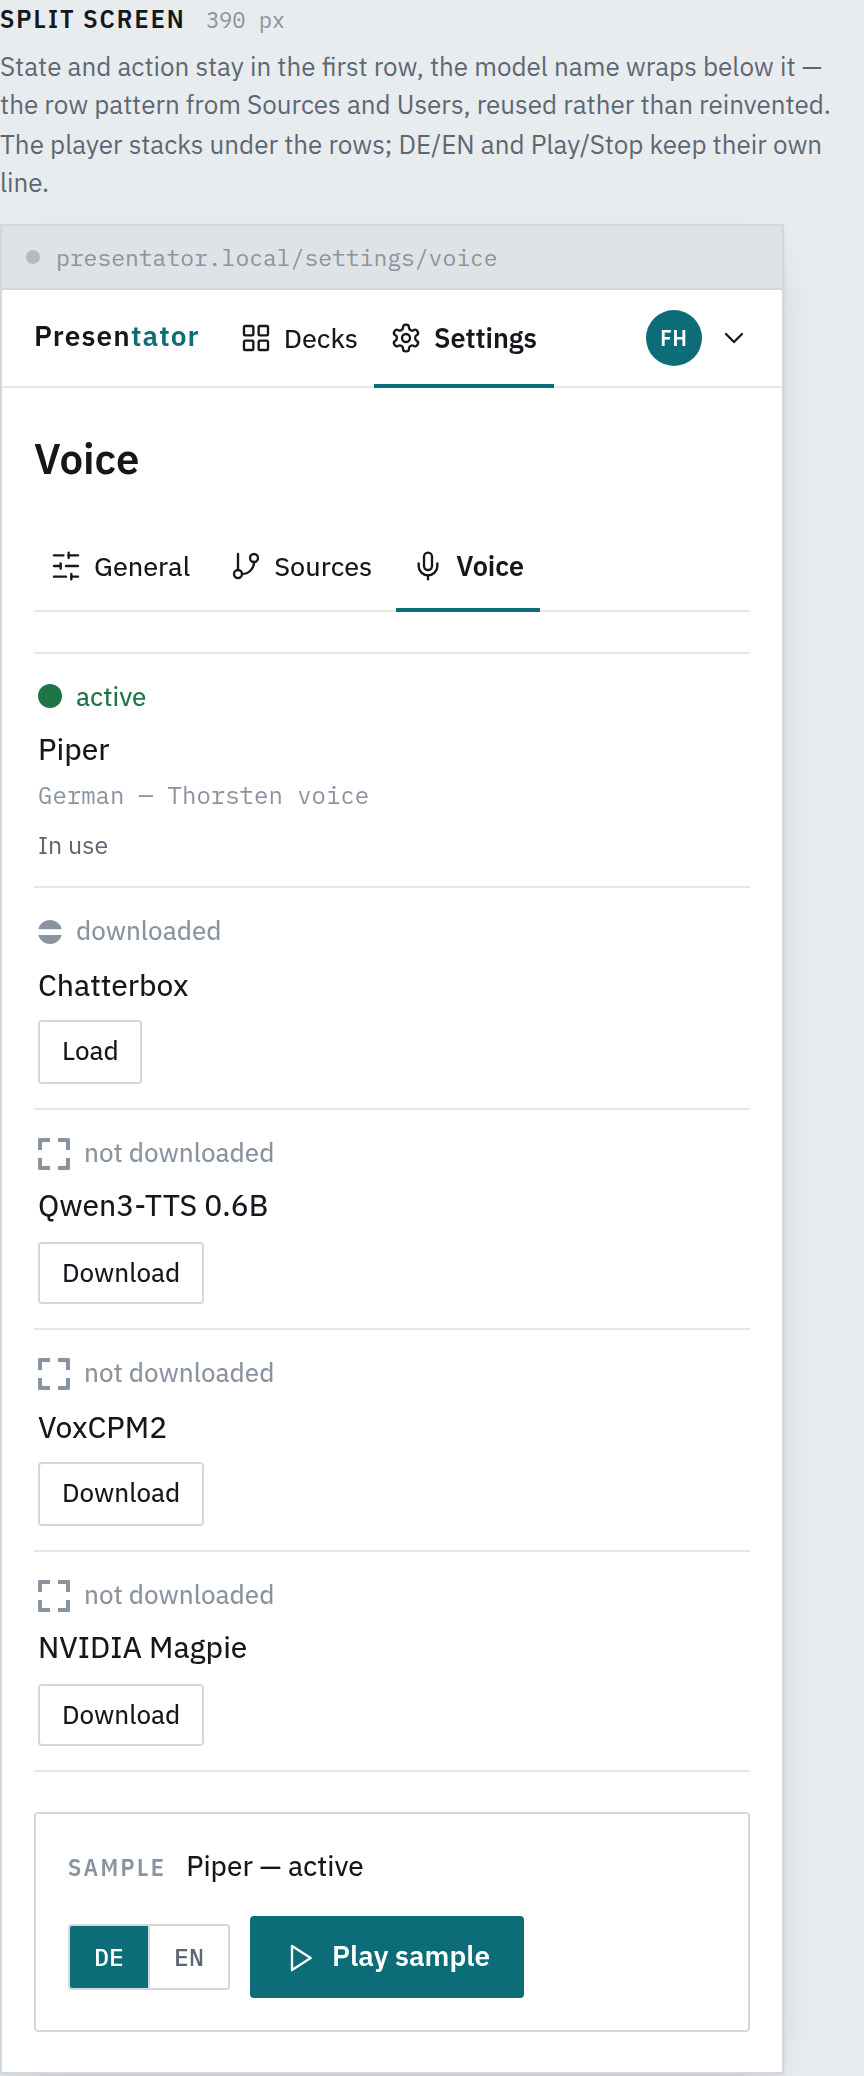
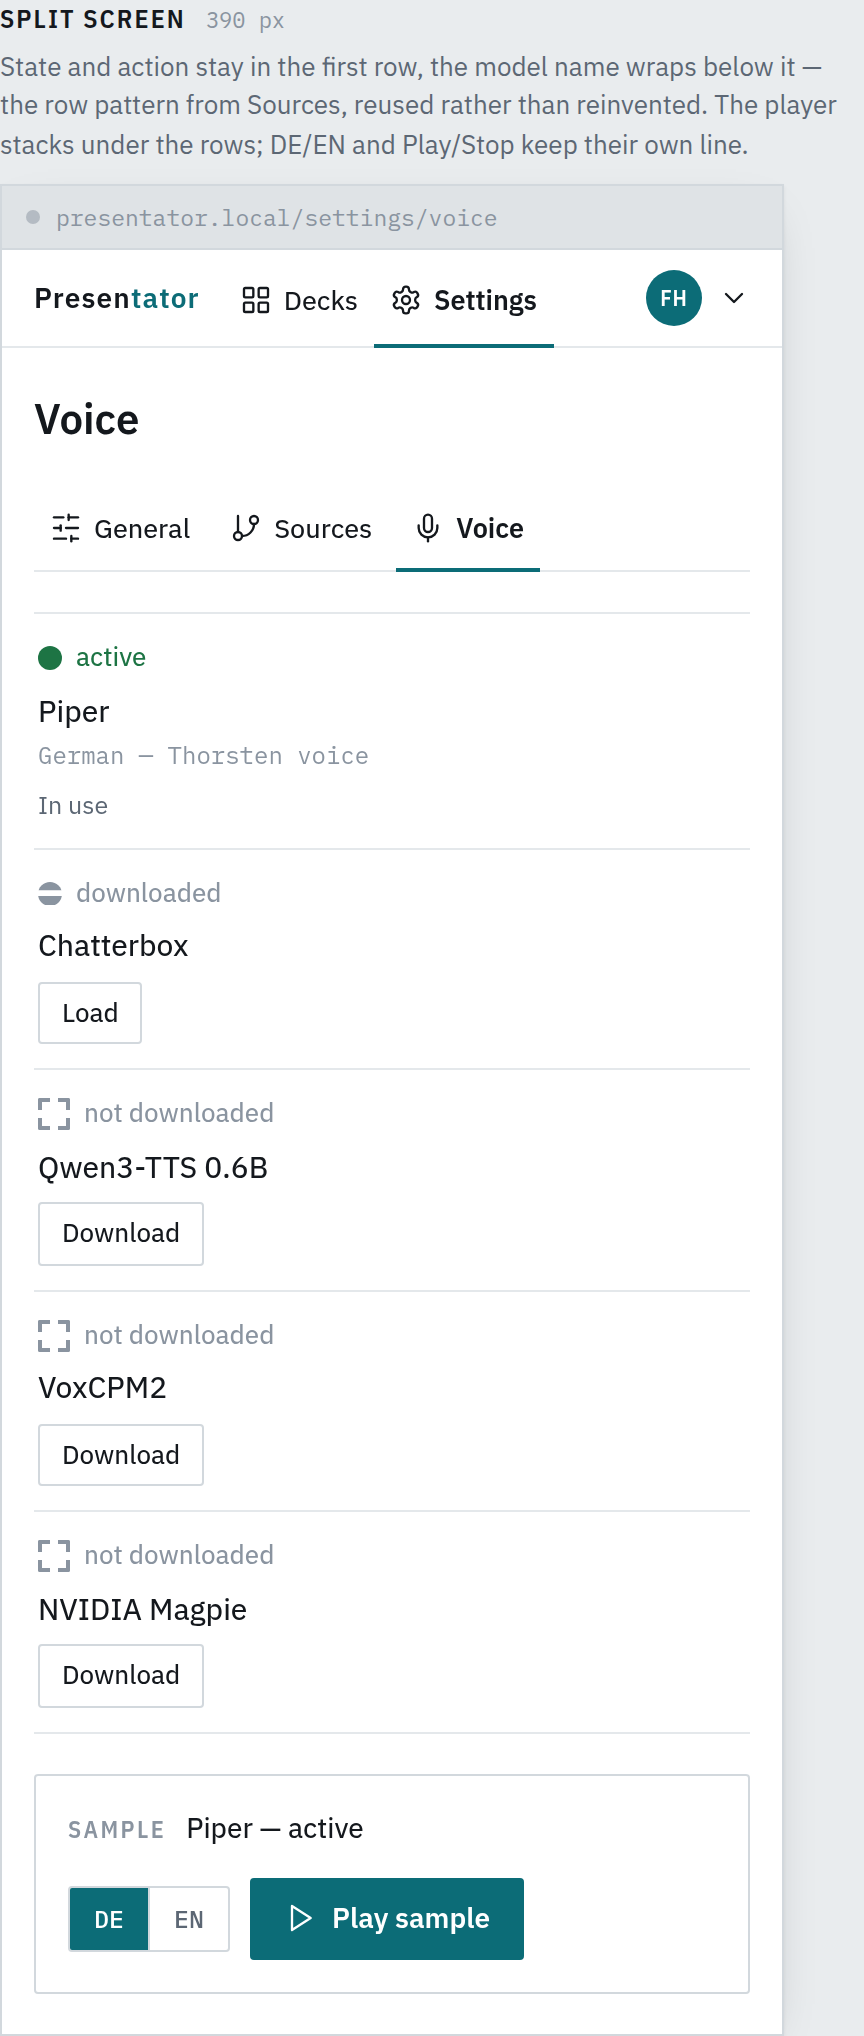
Correct the Datenschutz boards and tidy the sign-in picture's leftovers
Datenschutz sections 4 and 5 now say the account is managed in Keycloak while
presentator keeps a local record (username, role, preferences) whose deletion
is marked open; Keycloak's subject id is named. Captions and the CSS comment no
longer name Users or the deactivated account, unused row--user, input.placeholder
and two icon symbols are removed, the narrow flow-step rule from the blessed
picture is restored, and the README explains "K13". Affected renders redrawn.

diff --git a/docs/mockups/m0-lobby.html b/docs/mockups/m0-lobby.html
@@ -504,8 +504,6 @@
     margin-bottom: -1px;
   }
 
-  .row--user .stand .lbl { display: none; }
-
   .row--head {
     font-family: var(--cond);
     font-size: 11px;
@@ -700,10 +698,6 @@
     color: var(--ink-soft);
   }
 
-  .input.placeholder {
-    color: var(--ink-faint);
-  }
-
   /* ---------- buttons ---------- */
 
   .btn {
@@ -767,7 +761,7 @@
   .flow-host { font-family: var(--mono); font-size: 12.5px; color: var(--ink); overflow-wrap: anywhere; }
   .flow-what { font-size: 13px; color: var(--ink-soft); }
   .flow-arrow { align-self: center; font-family: var(--mono); font-size: 18px; color: var(--ink-faint); }
-  @container (max-width: 700px) { .flow { flex-direction: column; } .flow-arrow { transform: rotate(90deg); } }
+  @container (max-width: 700px) { .flow { flex-direction: column; } .flow-step { flex: none; } .flow-arrow { transform: rotate(90deg); } }
 
   /* ---------- state markers: shape + colour ---------- */
 
@@ -916,7 +910,6 @@
     .row .row-name { grid-column: 1 / -1; grid-row: 2; }
     .list-head { flex-direction: column; gap: 8px; }
     .row--head { display: none; }
-    .row--user .stand .lbl { display: inline; }
     .actions { flex-direction: column; align-items: stretch; }
     .actions .btn { width: 100%; box-sizing: border-box; }
   }
@@ -1416,21 +1409,13 @@
 
   /* ---------- accounts: the one new state, the user row ---------- */
 
-  /* deactivated — split disc, grey: switched off, not broken */
+  /* downloaded — split disc, grey: switched off, not broken */
   .state--off { color: var(--ink-faint); }
   .state--off .glyph {
     border-radius: 50%;
     background: var(--ink-faint);
     clip-path: polygon(0 0, 100% 0, 100% 38%, 0 38%, 0 62%, 100% 62%, 100% 100%, 0 100%);
   }
-
-  /* fixed tracks: every row is its own grid, so only fixed widths line the columns up */
-  .row--user {
-    grid-template-columns: 142px minmax(0, 1fr) 62px 176px 222px;
-    gap: 14px;
-  }
-
-  .row--user .row-act { justify-self: end; }
 
   /* ---------- voice: model rows and sample player ---------- */
 
@@ -1498,15 +1483,6 @@
     .row--src .age { grid-column: 2; grid-row: 1; }
     .row--src .src-name { grid-column: 1 / -1; grid-row: 2; }
     .row--src .row-act { grid-column: 1 / -1; grid-row: 3; justify-self: start; }
-    .row--user {
-      grid-template-columns: minmax(0, 1fr) auto;
-      row-gap: 8px;
-    }
-    .row--user .state { grid-column: 1; grid-row: 1; }
-    .row--user .tag { grid-column: 2; grid-row: 1; justify-self: end; }
-    .row--user .src-name { grid-column: 1 / -1; grid-row: 2; }
-    .row--user .stand { grid-column: 1 / -1; grid-row: 3; }
-    .row--user .row-act { grid-column: 1 / -1; grid-row: 4; justify-self: start; }
     .row--voice {
       grid-template-columns: minmax(0, 1fr) auto;
       row-gap: 6px;
@@ -1651,16 +1627,6 @@
       <circle cx="18" cy="6" r="3"></circle>
       <circle cx="6" cy="18" r="3"></circle>
       <path d="M18 9a9 9 0 0 1-9 9"></path>
-    </symbol>
-    <symbol id="icon-users" viewBox="0 0 24 24" fill="none" stroke="currentColor" stroke-width="1.75" stroke-linecap="round" stroke-linejoin="round">
-      <path d="M16 21v-2a4 4 0 0 0-4-4H6a4 4 0 0 0-4 4v2"></path>
-      <circle cx="9" cy="7" r="4"></circle>
-      <path d="M22 21v-2a4 4 0 0 0-3-3.87"></path>
-      <path d="M16 3.13a4 4 0 0 1 0 7.75"></path>
-    </symbol>
-    <symbol id="icon-key-round" viewBox="0 0 24 24" fill="none" stroke="currentColor" stroke-width="1.75" stroke-linecap="round" stroke-linejoin="round">
-      <path d="M2.586 17.414A2 2 0 0 0 2 18.828V21a1 1 0 0 0 1 1h3a1 1 0 0 0 1-1v-1a1 1 0 0 1 1-1h1a1 1 0 0 0 1-1v-1a1 1 0 0 1 1-1h.172a2 2 0 0 0 1.414-.586l.814-.814a6.5 6.5 0 1 0-4-4z"></path>
-      <circle cx="16.5" cy="7.5" r=".5" fill="currentColor"></circle>
     </symbol>
     <symbol id="icon-monitor" viewBox="0 0 24 24" fill="none" stroke="currentColor" stroke-width="1.75" stroke-linecap="round" stroke-linejoin="round">
       <rect width="20" height="14" x="2" y="3" rx="2"></rect>
@@ -3301,7 +3267,7 @@
       <figure class="board">
         <figcaption class="board-cap">
           <div class="board-title">Split screen <span class="w">390 px</span></div>
-          <p class="board-note">State and action stay in the first row, the model name wraps below it — the row pattern from Sources and Users, reused rather than reinvented. The player stacks under the rows; DE/EN and Play/Stop keep their own line.</p>
+          <p class="board-note">State and action stay in the first row, the model name wraps below it — the row pattern from Sources, reused rather than reinvented. The player stacks under the rows; DE/EN and Play/Stop keep their own line.</p>
         </figcaption>
         <div class="frame" style="--w: 390px">
           <div class="route">presentator.local/settings/voice</div>
@@ -3758,7 +3724,7 @@
       <figure class="board">
         <figcaption class="board-cap">
           <div class="board-title">Service status unknown <span class="w">Excerpt</span></div>
-          <p class="board-note">Reuses the same grey, split-circle token as a deactivated account — switched off or simply not confirmed, never red. A failed attempt (triangle) and an unconfirmed status are kept visibly apart. V9 settles this state: hide unverified rows and offer Check again to refresh.</p>
+          <p class="board-note">Reuses the same grey, split-circle token as downloaded — switched off or simply not confirmed, never red. A failed attempt (triangle) and an unconfirmed status are kept visibly apart. V9 settles this state: hide unverified rows and offer Check again to refresh.</p>
         </figcaption>
         <div class="frame" style="--w: 420px">
           <div class="route">presentator.local/settings/voice</div>
@@ -4345,7 +4311,7 @@ Cannot resolve import "./folien/03-fabric.md" from slides.md
               <section>
                 <h2>3. Empfänger und externe Anbieter</h2>
                 <ul>
-                  <li><b>Keycloak (auth.hallucinai.de):</b> Auftragsverarbeiter der Anmeldung; Presentator erhält von dort Name und Gruppe, kein Passwort.</li>
+                  <li><b>Keycloak (auth.hallucinai.de):</b> Auftragsverarbeiter der Anmeldung; Presentator erhält von dort Kennung (Subject-ID), Name und Gruppe, kein Passwort.</li>
                   <li><b>Anthropic (Claude):</b> aktuell der einzige aktiv genutzte Antwort-Anbieter des CoPresenter-Features, über den eigenen Claude-Zugang des Betreibers, nicht über einen pro Anfrage übertragenen API-Schlüssel. Übertragen werden die gesprochene Frage als Text, die aktuelle Folie und der gesamte Deckinhalt. <span class="offen">[offen: Anthropics eigene Aufbewahrungs- und Verarbeitungspraxis liegt außerhalb dieses Codes.]</span></li>
                   <li><b>Grok, Codex:</b> die Technik ist vorbereitet, wird vom Code aktuell aber nicht aufgerufen — nur Claude beantwortet Fragen. <span class="offen">[offen: ob/wann sich das ändert, legt der Betreiber fest.]</span></li>
                   <li><b>Sprachausgabe und Spracherkennung:</b> laufen lokal auf dem Server des Betreibers (Piper und Chatterbox für die Sprachausgabe; lokale Spracherkennung). Keine Übertragung an einen externen Sprachanbieter.</li>
@@ -4354,12 +4320,12 @@ Cannot resolve import "./folien/03-fabric.md" from slides.md
               </section>
               <section>
                 <h2>4. Speicherort</h2>
-                <p>Sitzungen, gespiegelte Decks und gebaute Vorträge liegen lokal auf dem vom Betreiber betriebenen Server — nicht in der Cloud eines Drittanbieters. Die einzige Ausnahme ist die in Abschnitt 3 genannte Übertragung an Anthropic für die CoPresenter-Antwort.</p>
+                <p>Benutzerkonten (lokaler Eintrag), Sitzungen, gespiegelte Decks und gebaute Vorträge liegen lokal auf dem vom Betreiber betriebenen Server — nicht in der Cloud eines Drittanbieters. Die einzige Ausnahme ist die in Abschnitt 3 genannte Übertragung an Anthropic für die CoPresenter-Antwort.</p>
               </section>
               <section>
                 <h2>5. Speicherdauer</h2>
                 <ul>
-                  <li><b>Benutzerkonten:</b> bei Keycloak, bis zur Löschung durch einen Administrator.</li>
+                  <li><b>Benutzerkonten:</b> Das Konto selbst wird in Keycloak verwaltet. Presentator führt dazu einen lokalen Eintrag (Benutzername, Rolle, Einstellungen wie Sprache und Darstellung). <span class="offen">[offen: wann der lokale Eintrag gelöscht wird — es gibt keinen Löschweg in Presentator.]</span></li>
                   <li><b>Sitzungen:</b> Zeile gelöscht beim Abmelden. <span class="offen">[offen: eine nie abgemeldete Sitzung wird im Code nicht automatisch gelöscht.]</span></li>
                   <li><b>Einmalig angezeigte Quellen-Zugriffsschlüssel:</b> spätestens nach 24 Stunden automatisch entfernt.</li>
                   <li><b>Decks und Builds:</b> bis die Quelle entfernt wird oder der Ordner aus Git verschwindet.</li>
@@ -4422,7 +4388,7 @@ Cannot resolve import "./folien/03-fabric.md" from slides.md
               <section>
                 <h2>3. Empfänger und externe Anbieter</h2>
                 <ul>
-                  <li><b>Keycloak (auth.hallucinai.de):</b> Auftragsverarbeiter der Anmeldung; Presentator erhält von dort Name und Gruppe, kein Passwort.</li>
+                  <li><b>Keycloak (auth.hallucinai.de):</b> Auftragsverarbeiter der Anmeldung; Presentator erhält von dort Kennung (Subject-ID), Name und Gruppe, kein Passwort.</li>
                   <li><b>Anthropic (Claude):</b> einziger aktiv genutzter Anbieter, über den eigenen Claude-Zugang des Betreibers. <span class="offen">[offen: Anthropics eigene Aufbewahrung liegt außerhalb dieses Codes.]</span></li>
                   <li><b>Grok, Codex:</b> vorbereitet, aber vom Code aktuell nicht aufgerufen.</li>
                   <li><b>Sprachausgabe/-erkennung:</b> lokal (Piper, Chatterbox) — keine externe Übertragung.</li>
@@ -4436,7 +4402,7 @@ Cannot resolve import "./folien/03-fabric.md" from slides.md
               <section>
                 <h2>5. Speicherdauer</h2>
                 <ul>
-                  <li><b>Benutzerkonten:</b> bei Keycloak, bis zur Löschung durch einen Administrator.</li>
+                  <li><b>Benutzerkonten:</b> Das Konto selbst wird in Keycloak verwaltet. Presentator führt dazu einen lokalen Eintrag (Benutzername, Rolle, Einstellungen wie Sprache und Darstellung). <span class="offen">[offen: wann der lokale Eintrag gelöscht wird — es gibt keinen Löschweg in Presentator.]</span></li>
                   <li><b>Sitzungen:</b> gelöscht beim Abmelden. <span class="offen">[offen: keine automatische Löschung einer nie abgemeldeten Sitzung.]</span></li>
                   <li><b>Quellen-Zugriffsschlüssel (Entwürfe):</b> nach spätestens 24 Stunden entfernt.</li>
                   <li><b>Decks/Builds:</b> bis die Quelle entfernt wird.</li>

diff --git a/docs/mockups/README.md b/docs/mockups/README.md
@@ -28,7 +28,7 @@ wide). Per-artboard renders in `m0-lobby/`, device scale factor 2, cropped to
 each `.board` element, in document order. "Lines" gives the issue #8
 expectation lines the artboard's own caption cites; where the caption cites
 none, the group's line range from the sheet's section header is given instead
-(marked "group"). The Voice table's "Ruling" column links the adopted V1–V9
+(marked "group"). "K13" refers to the #242 picture. The Voice table's "Ruling" column links the adopted V1–V9
 requirements that its caption or rendered state demonstrates.
 
 ### Sign-in · Keycloak (K13, #242)
